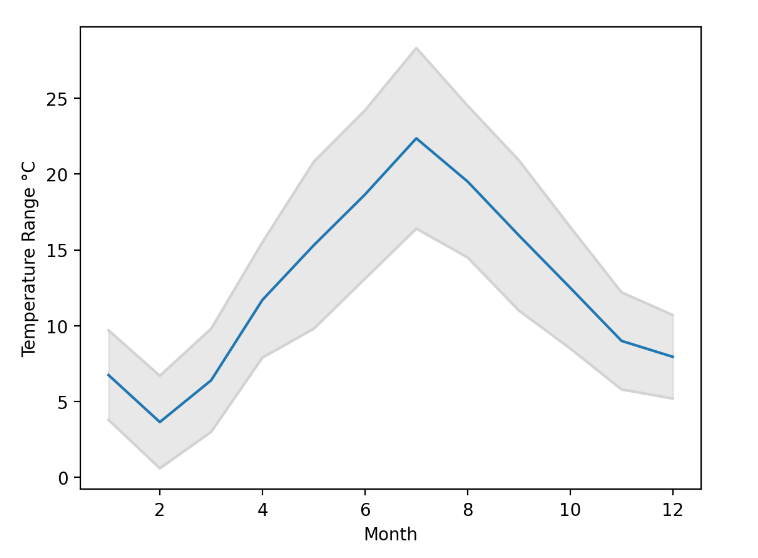
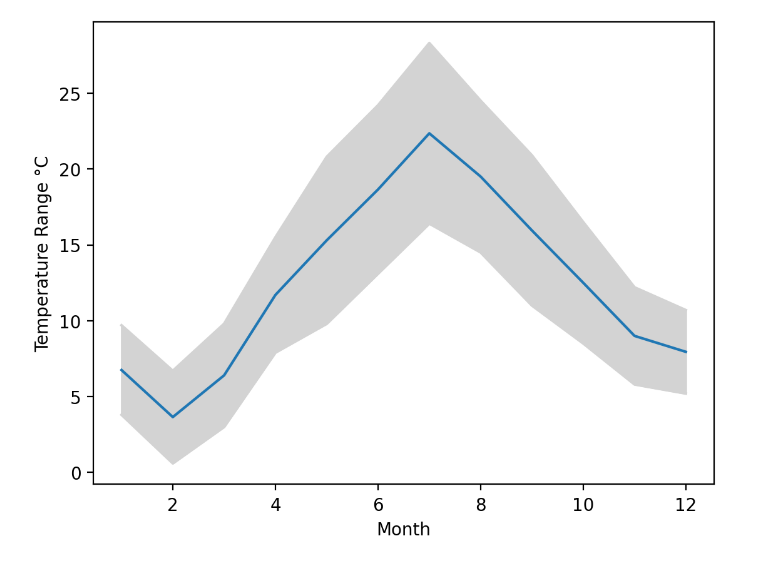
update

diff --git a/12visuals5.py b/12visuals5.py
@@ -23,7 +23,10 @@ ax = weather.plot.line(x='Month', y = 'Tmin',  color = 'lightgrey', ax=ax)
 st.pyplot(fig)
 
 st.subheader("A plot of the mean with shaded area between max and min")
-plt.fill_between(weather['Month'], weather['Tmax'],weather['Tmin'], color='lightgrey', alpha=0.5)
+plt.fill_between(weather['Month'], 
+                 weather['Tmax'],
+                 weather['Tmin'], 
+                 color='lightgrey')
 
 ax.get_legend().set_visible(False)
 ax.set_ylabel('Temperature Range °C')
